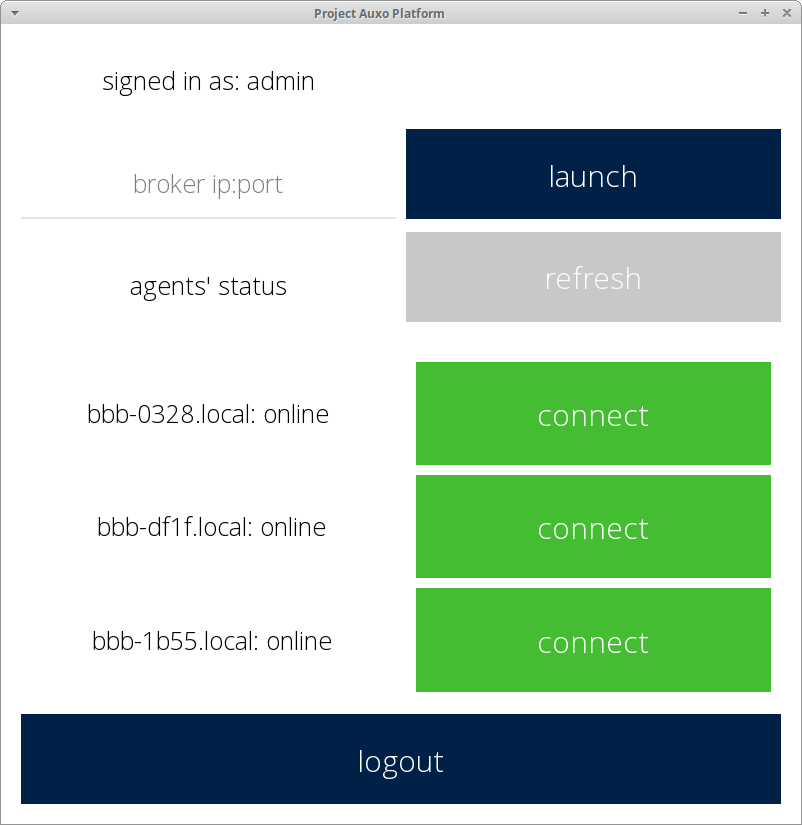
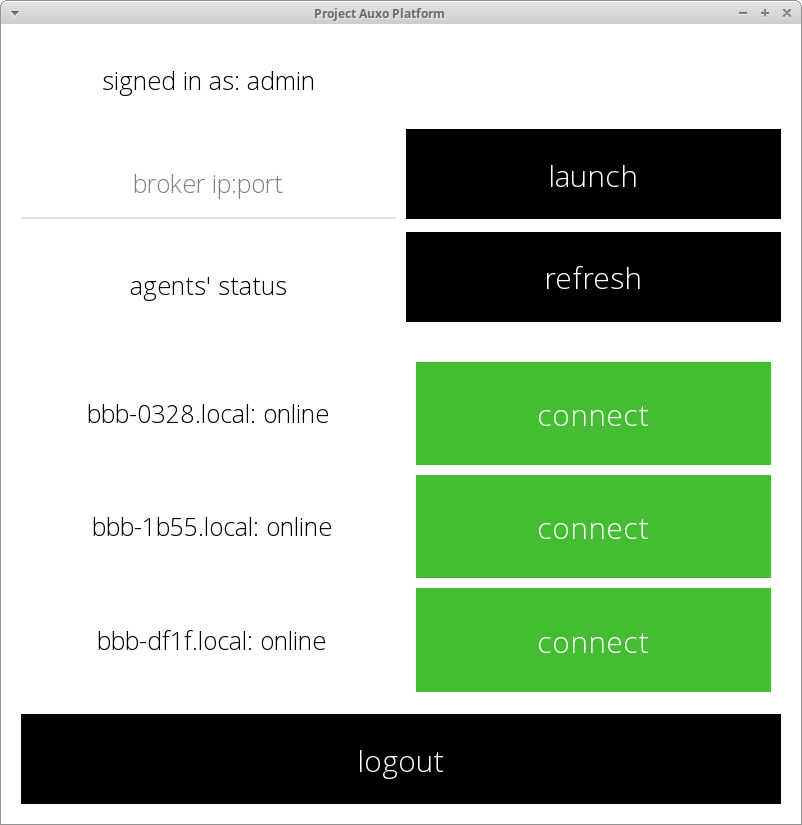
Changed colorscheme to black

diff --git a/README.md b/README.md
@@ -6,3 +6,18 @@ Flat theme inspired by [Flat UI](http://designmodo.github.io/Flat-UI/)
 
 ![Login screen](screenshots/login_screen.png)
 ![Connected screen](screenshots/connected_screen.png)
+
+
+## Setup
+
+### 1. Download
+
+- _Download_ the zip archive 
+
+- _Unzip_ the archive
+
+### 2. Install requirements
+Make sure to pip install into a python virtualenv!
+```bash
+ pip3 install -r requirements.txt
+```
